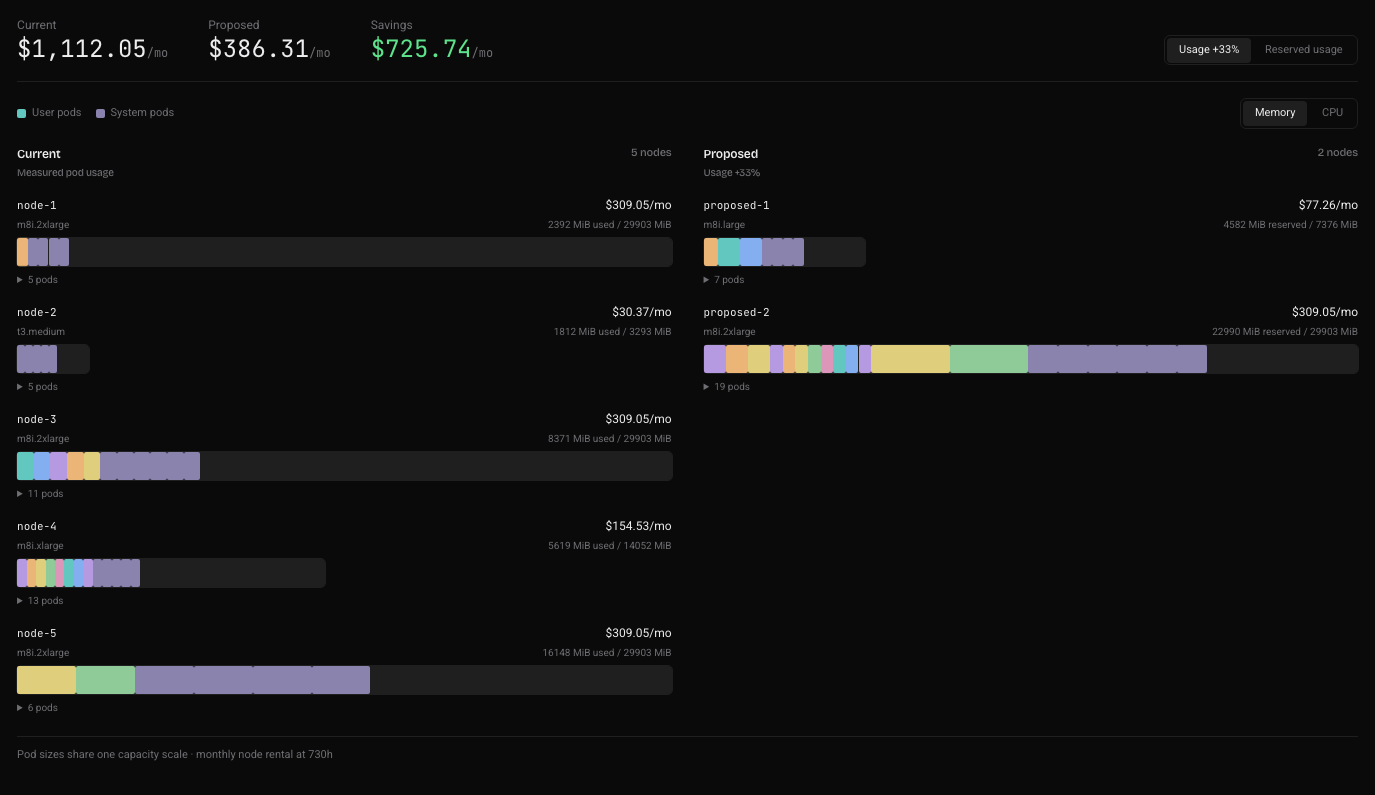
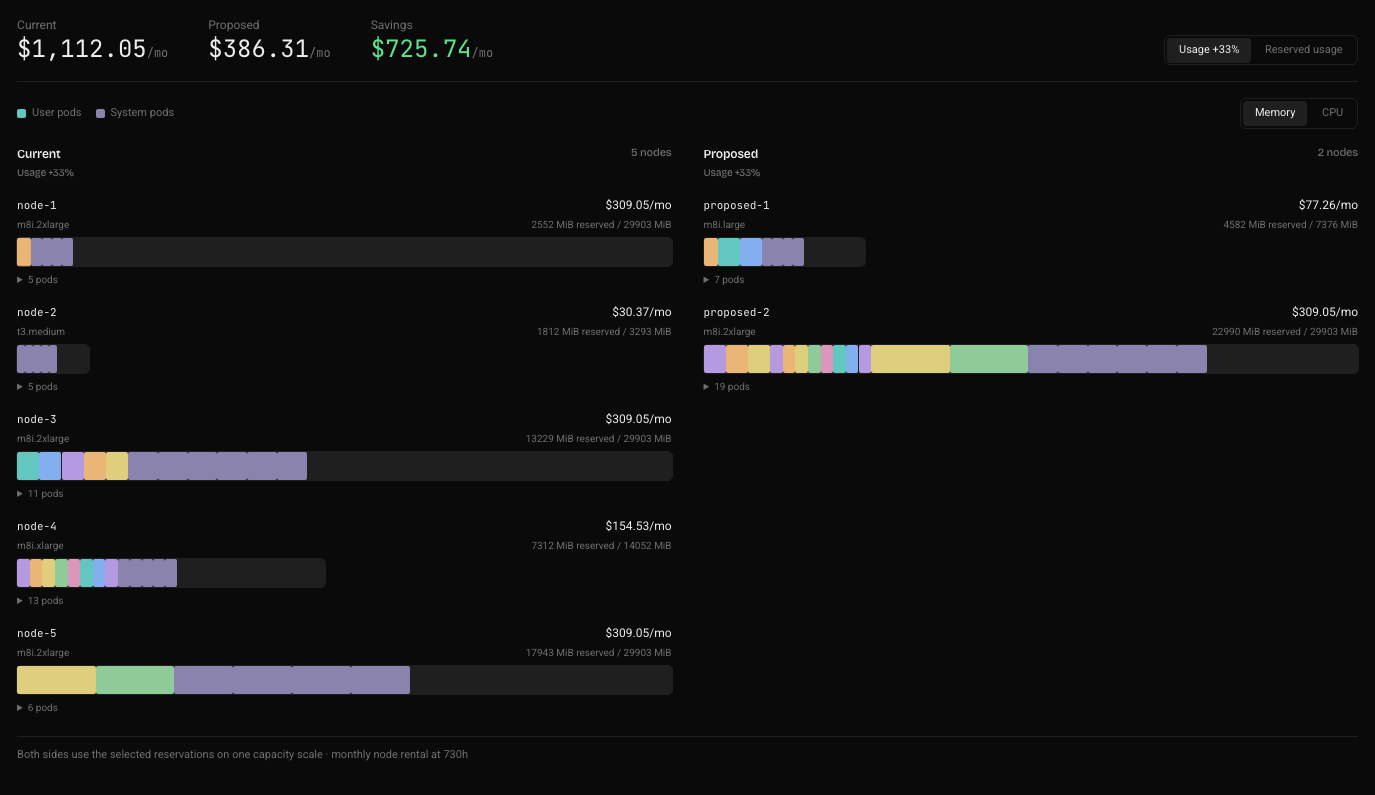
Document and verify reservation sizing on both placement columns

diff --git a/resource/frontend/tests/k8s-cost-story.spec.ts b/resource/frontend/tests/k8s-cost-story.spec.ts
@@ -67,7 +67,7 @@ async function openCosts(page: Page, variant: 'normal' | 'unpriced' | 'incomplet
   await expect(page.getByRole('region', { name: 'Server costs' })).toBeVisible();
 }
 
-test('static comparison uses measured pod widths and priced calculated destinations', async ({ page }) => {
+test('static comparison uses matching reservation widths and priced calculated destinations', async ({ page }) => {
   await openCosts(page);
   const costs = page.getByRole('region', { name: 'Server costs' });
   const before = costs.getByRole('region', { name: 'Current servers' });
@@ -80,20 +80,21 @@ test('static comparison uses measured pod widths and priced calculated destinati
   await expect(before.locator('[data-node="node-2"] .kp-price')).toHaveText('$30.37/mo');
   await expect(after.locator('[data-node="proposed-1"] .kp-price')).toHaveText('$77.26/mo');
   await expect(after.locator('[data-node="proposed-2"] .kp-price')).toHaveText('$309.05/mo');
-  const source = before.getByRole('button', { name: 'analytics/pod-1-1: 480 MiB used', exact: true });
+  const source = before.getByRole('button', { name: 'analytics/pod-1-1: 640 MiB reserved', exact: true });
   const destination = after.getByRole('button', { name: 'analytics/pod-1-1: 640 MiB reserved', exact: true });
   const sourceBox = await source.boundingBox();
   const destinationBox = await destination.boundingBox();
-  expect(destinationBox!.width / sourceBox!.width).toBeCloseTo(640 / 480, 2);
+  expect(destinationBox!.width / sourceBox!.width).toBeCloseTo(1, 2);
   expect(await source.evaluate(el => getComputedStyle(el).backgroundColor)).toBe(await destination.evaluate(el => getComputedStyle(el).backgroundColor));
   const track = await before.locator('[data-node="node-1"] .kp-track').boundingBox();
-  expect(sourceBox!.width / track!.width).toBeCloseTo(480 / 29903, 3);
+  expect(sourceBox!.width / track!.width).toBeCloseTo(640 / 29903, 3);
   await source.click();
   await expect(destination).toHaveAttribute('aria-pressed', 'true');
   await expect(costs.locator('.kp-selection')).toContainText('node-1 → proposed-1');
   expect(await destination.evaluate(el => getComputedStyle(el).animationName)).toBe('none');
   await costs.getByRole('button', { name: 'CPU', exact: true }).click();
   await expect(after.getByRole('button', { name: 'analytics/pod-1-1: 14m reserved', exact: true })).toHaveAttribute('aria-pressed', 'true');
+  await expect(before.getByRole('button', { name: 'analytics/pod-1-1: 14m reserved', exact: true })).toHaveAttribute('aria-pressed', 'true');
   await costs.getByRole('button', { name: 'Reserved usage', exact: true }).click();
   await expect(after.locator('.kp-server')).toHaveCount(5);
   await expect(costs).toContainText('$0.00/mo');
@@ -120,12 +121,12 @@ test('unpriced results never show fabricated rents', async ({ page }) => {
   await expect(costs.locator('.kp-price').first()).toHaveText('Price unavailable');
 });
 
-test('unknown usage is flagged and is never drawn as a zero-sized measured pod', async ({ page }) => {
+test('unknown sizing is flagged and is never drawn as known zero', async ({ page }) => {
   await openCosts(page, 'incomplete');
   const costs = page.getByRole('region', { name: 'Server costs' });
   await expect(costs).toContainText('Incomplete projection');
   await expect(costs).not.toContainText('$725.74/mo');
-  await expect(costs.locator('[data-node="node-1"]')).toContainText('1 unmeasured');
+  await expect(costs.locator('[data-node="node-1"]')).toContainText('1 unsized');
   await expect(costs.locator('.kp-pod[aria-label^="analytics/pod-1-1:"]')).toHaveCount(0);
   await costs.locator('[data-node="node-1"] summary').click();
   await expect(costs.locator('[data-node="node-1"] .kp-pod-list')).toContainText('unknown');
@@ -148,8 +149,14 @@ test('mode changes reservation sizes while preserving pod colors and user identi
     const track = destination.locator('..');
     const cap = mode === 'Reserved usage' ? 29903 : 7376;
     expect((await destination.boundingBox())!.width / (await track.boundingBox())!.width).toBeCloseTo(value / cap, 3);
-    expect((await source.boundingBox())!.width / (await source.locator('..').boundingBox())!.width).toBeCloseTo(480 / 29903, 3);
+    expect((await source.boundingBox())!.width / (await source.locator('..').boundingBox())!.width).toBeCloseTo(value / 29903, 3);
     expect(await destination.evaluate(el => getComputedStyle(el).backgroundColor)).toBe(sourceColor);
+    await expect.poll(() => costs.evaluate((el, podKey) => {
+      const blocks = el.querySelectorAll(`[data-pod-key="${podKey}"]`);
+      return blocks[1].getBoundingClientRect().width / blocks[0].getBoundingClientRect().width;
+    }, key)).toBeCloseTo(1, 2);
+    await expect(before.locator('.kp-heading small')).toHaveText(mode);
+    await expect(after.locator('.kp-heading small')).toHaveText(mode);
     expect(await after.locator('.kp-pod[data-pod-key^="analytics/"]').evaluateAll(els => els.map(el => el.getAttribute('data-pod-key')).sort())).toEqual(sourceKeys);
     await source.click();
     await expect(destination).toHaveAttribute('aria-pressed', 'true');

diff --git a/README.md b/README.md
@@ -6,7 +6,7 @@
 
 **A polished, multi-instance administration cockpit for Dataiku DSS: diagnostics, health scoring, cleanup tools, and cost insights in one webapp.**
 
-![Version](https://img.shields.io/badge/version-0.4.843-blue)
+![Version](https://img.shields.io/badge/version-0.4.844-blue)
 ![Dataiku DSS](https://img.shields.io/badge/Dataiku%20DSS-13%2B-2AB1AC)
 ![React](https://img.shields.io/badge/React-19-61DAFB?logo=react&logoColor=white)
 ![TypeScript](https://img.shields.io/badge/TypeScript-5.9-3178C6?logo=typescript&logoColor=white)
@@ -79,9 +79,9 @@ The deepest module — code-env sprawl is usually the #1 health problem on a mat
 
 ### AI Compute
 
-**Container Execs** *(tool)* streams the live container-execution inventory (K8s workloads per project, recipe, webapp). **Docker Images** *(tool)* prunes stale images from ECR/ACR/GAR registries. **CS Templates** *(tool)* migrates code studios between templates. **Model Audit** inventories every LLM connection and model with cost and replacement hints. **K8s Insights** audits your clusters live: a static current/proposed placement comparison shows measured CPU or memory for each pod, per-node rental prices, and reconciled cost totals. The left side shows measured pod usage; the right shows the selected placement reservations in matching pod colors, with Usage +33% and Reserved usage modes. Proposed assignments include system services; incomplete sizing is flagged.
+**Container Execs** *(tool)* streams the live container-execution inventory (K8s workloads per project, recipe, webapp). **Docker Images** *(tool)* prunes stale images from ECR/ACR/GAR registries. **CS Templates** *(tool)* migrates code studios between templates. **Model Audit** inventories every LLM connection and model with cost and replacement hints. **K8s Insights** audits your clusters live: a static current/proposed placement comparison shows measured CPU or memory for each pod, per-node rental prices, and reconciled cost totals. Both sides show the selected placement reservations, with matching pod sizes and colors in Usage +33% and Reserved usage modes. Proposed assignments include system services; incomplete sizing is flagged.
 
-<div align="center"><img src="docs/screenshots/k8s-insights.png" alt="K8s Insights — measured pod usage compared with proposed reservations in matching colors, with per-node rental prices" width="850" /></div>
+<div align="center"><img src="docs/screenshots/k8s-insights.png" alt="K8s Insights — current and proposed pod placements using matching reservation sizes and colors, with per-node rental prices" width="850" /></div>
 
 <div align="center"><img src="docs/screenshots/llm-audit.png" alt="LLM Model Audit — 82 models with connections, cost and replacement hints" width="850" /></div>
 

diff --git a/CHANGELOG.md b/CHANGELOG.md
@@ -7,6 +7,12 @@ and this project adheres to [Semantic Versioning](https://semver.org/spec/v2.0.0
 
 ## [Unreleased]
 
+## [0.4.844] - 2026-09-11
+
+### Fixed
+
+- Both sides of the K8s placement comparison now use the selected reservation sizing. Switching between Usage +33% and Reserved usage updates current and proposed pods together, preserving matching sizes and colors.
+
 ## [0.4.843] - 2026-09-11
 
 ### Changed
